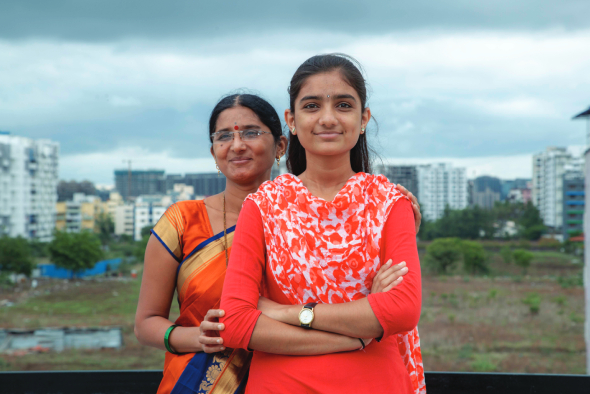
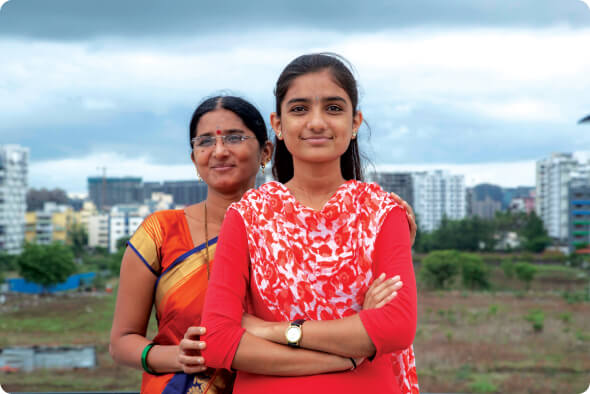
changes in images

diff --git a/pages/careers/index.js b/pages/careers/index.js
@@ -22,8 +22,8 @@ import styles from "@/styles/pages/careers.module.scss";
 // UTILS //
 
 // IMAGES //
-import Girl1 from "../../public/img/about/girl.jpg";
-import Girl2 from "../../public/img/about/girl2.jpg";
+import Girl1 from "../../public/img/careers/cr1.jpg";
+import Girl2 from "../../public/img/careers/cr2.jpg";
 import newBanner from "../../public/img/careers/newBanner.jpg";
 // SERVICES //
 import {

diff --git a/src/pages/Contact/careers/Join.js b/src/pages/Contact/careers/Join.js
@@ -13,7 +13,7 @@ import Button from "@/components/Buttons/Button";
 import styles from "@/styles/sections/pages/careers/Join.module.scss";
 
 // IMAGES //
-import JoinImg from "../../../../public/img/careers/join_img.jpg";
+import JoinImg from "../../../../public/img/careers/join_img2.jpg";
 
 // DATA //
 
